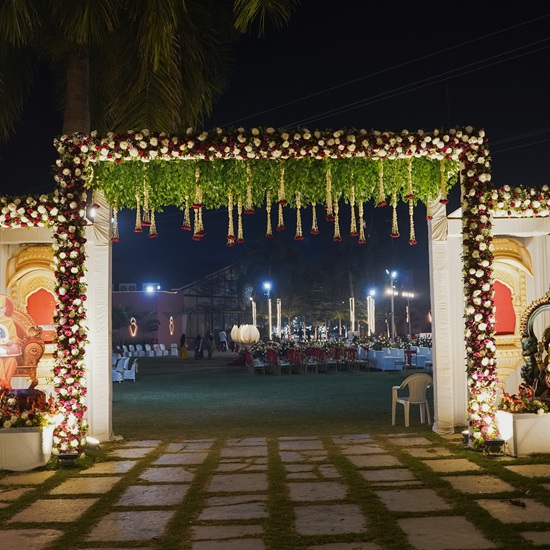
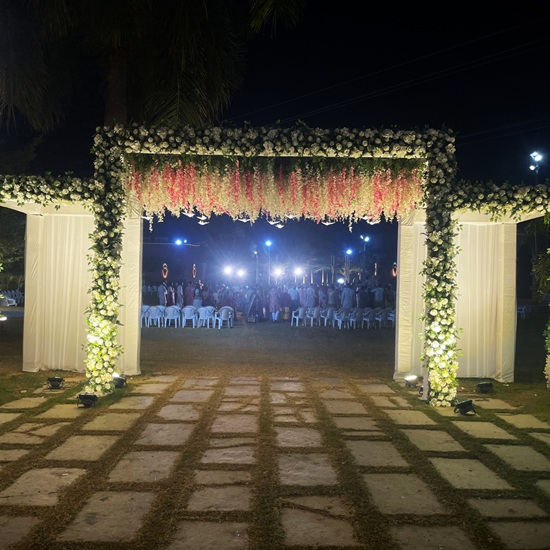
testest

diff --git a/index.html b/index.html
@@ -936,6 +936,16 @@
             </span>
           </div>
         </div>
+           <div class="col-6 col-md-6 col-lg-4 grid-item c-6">
+          <div class="bd-singel__gallery-item mb-30">
+            <div class="bd-gallery__thumb">
+              <a href="#"><img src="assets/img/gate6ss.jpg" alt="Wedding chori ritual with bride and groom — Avsar Party Plot Gujarat"></a>
+            </div>
+            <span class="bd-gallery__action">
+              <a class="popup-image" href="assets/img/gate6.jpg" aria-label="View full image"><i class="fa-solid fa-image" aria-hidden="true"></i></a>
+            </span>
+          </div>
+        </div>
         <div class="col-6 col-md-6 col-lg-4 grid-item c-7">
           <div class="bd-singel__gallery-item mb-30">
             <div class="bd-gallery__thumb">
@@ -943,6 +953,16 @@
             </div>
             <span class="bd-gallery__action">
               <a class="popup-image" href="assets/img/pokvano4.jpg" aria-label="View full image"><i class="fa-solid fa-image" aria-hidden="true"></i></a>
+            </span>
+          </div>
+        </div>
+         <div class="col-6 col-md-6 col-lg-4 grid-item c-7">
+          <div class="bd-singel__gallery-item mb-30">
+            <div class="bd-gallery__thumb">
+              <a href="#"><img src="assets/img/pokvano3ss.jpg" alt="Wedding chori ritual with bride and groom — Avsar Party Plot Gujarat"></a>
+            </div>
+            <span class="bd-gallery__action">
+              <a class="popup-image" href="assets/img/pokvano3.jpg" aria-label="View full image"><i class="fa-solid fa-image" aria-hidden="true"></i></a>
             </span>
           </div>
         </div>
@@ -1034,6 +1054,16 @@
             </span>
           </div>
         </div>
+        <div class="col-6 col-md-6 col-lg-4 grid-item c-2">
+          <div class="bd-singel__gallery-item mb-30">
+            <div class="bd-gallery__thumb">
+              <a href="#"><img src="assets/img/reception2ss.jpg" alt="Grand reception hall setup at Avsar Party Plot — elegant décor for 500 guests Anand"></a>
+            </div>
+            <span class="bd-gallery__action">
+              <a class="popup-image" href="assets/img/reception2.jpg" aria-label="View full image"><i class="fa-solid fa-image" aria-hidden="true"></i></a>
+            </span>
+          </div>
+        </div>
         <div class="col-6 col-md-6 col-lg-4 grid-item c-1">
           <div class="bd-singel__gallery-item mb-30">
             <div class="bd-gallery__thumb">
@@ -1087,6 +1117,16 @@
             </span>
           </div>
         </div>
+        <div class="col-6 col-md-6 col-lg-4 grid-item c-1">
+          <div class="bd-singel__gallery-item mb-30">
+            <div class="bd-gallery__thumb">
+              <a href="#"><img src="assets/img/chori7ss.jpg" alt="Grand gate decoration for evening event at Avsar Party Plot — lighting and flowers"></a>
+            </div>
+            <span class="bd-gallery__action">
+              <a class="popup-image" href="assets/img/chori7.jpg" aria-label="View full image"><i class="fa-solid fa-image" aria-hidden="true"></i></a>
+            </span>
+          </div>
+        </div>
 <div class="col-6 col-md-6 col-lg-4 grid-item c-1">
           <div class="bd-singel__gallery-item mb-30">
             <div class="bd-gallery__thumb">
@@ -1114,6 +1154,16 @@
             </div>
             <span class="bd-gallery__action">
               <a class="popup-image" href="assets/img/entry2.jpg" aria-label="View full image"><i class="fa-solid fa-image" aria-hidden="true"></i></a>
+            </span>
+          </div>
+        </div>
+        <div class="col-6 col-md-6 col-lg-4 grid-item c-6">
+          <div class="bd-singel__gallery-item mb-30">
+            <div class="bd-gallery__thumb">
+              <a href="#"><img src="assets/img/entry5ss.jpg" alt="Grand gate decoration for evening event at Avsar Party Plot — lighting and flowers"></a>
+            </div>
+            <span class="bd-gallery__action">
+              <a class="popup-image" href="assets/img/entry5.jpg" aria-label="View full image"><i class="fa-solid fa-image" aria-hidden="true"></i></a>
             </span>
           </div>
         </div>

diff --git a/css/style.css b/css/style.css
@@ -66,7 +66,7 @@ h6,
     position: relative;
     z-index: 1050;
     width: 100% !important;
-    background-color: #f3eaeb !important; /* Matches your form's input background shade */
+    background-color: #f2e5e8 !important; /* Matches your form's input background shade */
     border: none !important;
     height: 58px !important;
     line-height: 58px !important;
